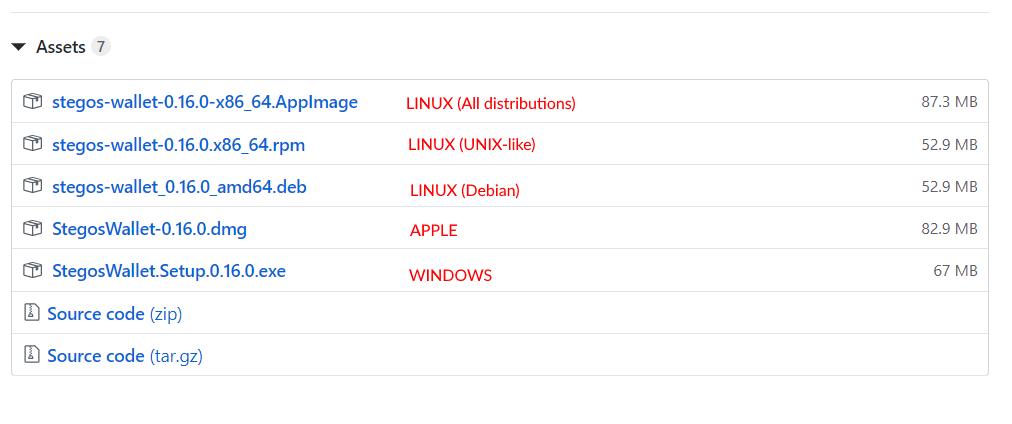
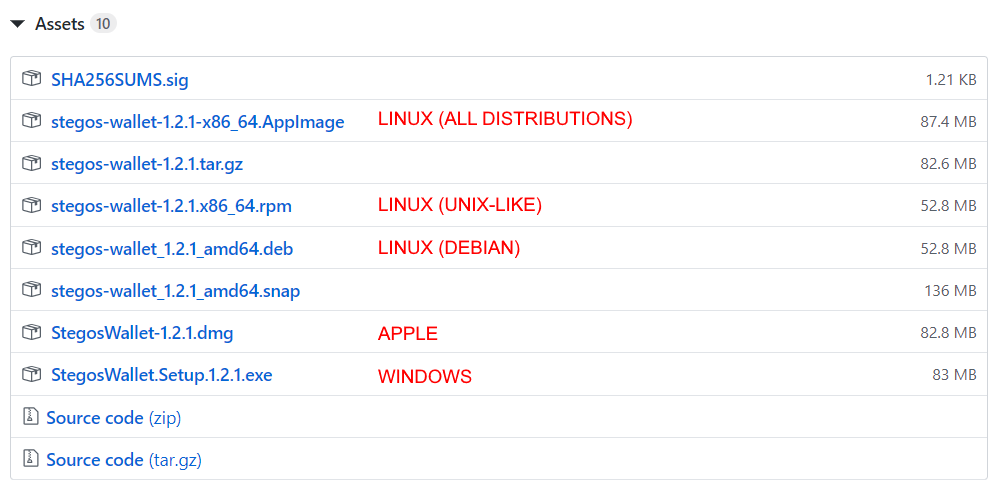
First wave of doc updates: Added new introduction, removed obsolete material, reorganized menus in preparation for second phase of updates.

diff --git a/content/faqs/Funding_and_development.md b/content/faqs/Funding_and_development.md
@@ -5,16 +5,16 @@ type="page"
 +++
 
 #### How is Stegos being funded?
-Stegos will generate a pre-mine of 1 billion STG tokens. Up to 51.25% of the STG pre-mine may be privately sold to high net-worth individuals and companies to reach a maximum of $30 million. Stegos has already raised $15 million of this target in 2018. Once the mainnet is launched, STG tokens will be sold directly to the general public using the built-in DEX.
+Stegos generated a pre-mine of 1 billion STG tokens, of which around 50% was privately sold to high net-worth individuals and companies. Stegos raised $15 million in 2018, which has been used to develop and market the Stegos blockchain and desktop and mobile apps. Once the mobile app is launched, Stegos will begin to transition to a more decentralized governance structure.
 ___
 #### Has development started?
-Development has been on-going for many months. The testnet launched has already launched, and mainnet is due to launch in Nov 2019.
+Development has been on-going for over a year. The Stegos desktop wallet launched in August 2019, the Stegos mainnet launched in Nov 2019 and the Stegos mobile wallet and node will launch in Q1 2020.
 ___
-#### When does the mainnet launch?
+<!--- #### When does the mainnet launch? 
 Mainnet will launch in November 2019.
 ___
 #### What features will be available at mainnet launch?
 Most features will be implemented at launch, although full mobile support will come later. The Stegos desktop app will be available for Windows, MacOS and Linux, but without full messaging support. It will be possible to send messages using the transaction interface, but the chat UI and group chat functionalities will be added later.
 ___
 #### Is there a way to help with testing?
-Yes! We are currently running a $200,000 joint bounty program and hackathon to test our network and spread the word about Stegos. To get started, go to https://www.notion.so/stegos/Stegos-200k-Bounty-and-Hackathon-e83ec5ee6cec485f92c7e7bab93a1306.
+Yes! We are currently running a $200,000 joint bounty program and hackathon to test our network and spread the word about Stegos. To get started, go to https://www.notion.so/stegos/Stegos-200k-Bounty-and-Hackathon-e83ec5ee6cec485f92c7e7bab93a1306. --->

diff --git a/content/gui_wallet/installing_wallet.md b/content/gui_wallet/installing_wallet.md
@@ -7,9 +7,9 @@ weight=2
 
 Install the Stegos desktop wallet by visiting the latest release page:
 
-[https://github.com/stegos/stegos-wallet/releases/tag/v1.0](https://github.com/stegos/stegos-wallet/releases/tag/v1.0)
+[https://github.com/stegos/stegos-wallet/releases/](https://github.com/stegos/stegos-wallet/releases/)
 
-Scroll to the bottom, and click the "Assets" button to expand the menu. Please read all the instructions first though!
+Scroll to the bottom of the most recent entry. You may need to click the "Assets" button to expand the menu. Please read all the instructions first though!
 
 <img src="/images/Assets_Unexpanded.png" style="object-fit:cover;"/>
 
@@ -17,11 +17,11 @@ You will then see a list of files. Choose the right one for your operating syste
 
 <img src="/images/Operating_System_Choice.png" style="object-fit:cover;"/>
 
-**Linux:** stegos-wallet-1.0.0-x86_64.AppImage
+**Linux:** stegos-wallet-1.2.1-x86_64.AppImage
 
-**MacOS:** StegosWallet-1.0.0.dmg
+**MacOS:** StegosWallet-1.2.1.dmg
 
-**Windows:** StegosWallet.Setup.1.0.0.exe
+**Windows:** StegosWallet.Setup.1.2.1.exe
 
 Install the file (you may get a security warning and need to give it permission to run — don't worry, it's perfectly safe) and you're ready to begin!
 
@@ -33,7 +33,7 @@ There are versions of the wallet for MacOS, Windows, and all major Linux distrib
 
 **Is there an Android or iOS wallet?**
 
-No. The mobile wallet is a high priority item on our roadmap, but it won't be released until 
+Not at the moment. Our Android wallet is currently in development and will be released in Q1. You can see a first-look video of it here. There are currently no plans to release an iOS wallet, as it would be impossible to distribute it widely due to Apple's restrictions on private apps.
 
 **I have a 32-bit system, can I install the wallet?**
 

diff --git a/content/_index.md b/content/_index.md
@@ -4,14 +4,18 @@ type="page"
 +++
 
 
-# Welcome to the Stegos documentation portal!
+# Welcome to the Stegos info center!
 
 We live in an era of unprecedented state surveillance and crackdowns on freedom.
 
 It’s nobody’s business what you do with your money, whether paper or digital, and it’s nobody's business who you transact or communicate with.
 
-Stegos helps you embrace your freedoms by providing the first cryptocurrency with fully private transactions and integrated private messaging. This is all thanks to Snowball, our unique privacy protocol. Pruning and sharding keeping the blockchain fast and small.
+Stegos helps you embrace your freedoms by providing the first cryptocurrency with fully private transactions and integrated private messaging. This is all thanks to Snowball, our unique privacy protocol. Pruning and sharding keep the blockchain fast and small.
 
 Stegos uses gamified proof-of-stake (gPoS) to ensure that everyone who helps maintain the network has a fair chance of earning Stegos tokens, not just whales.
 
-Use the menu on the left to learn more about Stegos, our $200,000 bounty and hackathon (running until Nov 17th) and our desktop wallet, which you can download [here](https://github.com/stegos/stegos-wallet/releases/tag/v0.17)
+Whether you're a privacy novice or a seasoned developer, use the menu on the left to learn more about Stegos, staking, our blockchain and our desktop and command line wallets, which you can download [here](https://github.com/stegos/stegos-wallet/releases/) and [here](https://github.com/stegos/stegos/releases).
+
+<img src="/images/comic_strip_2.png" style="object-fit:cover;"/>
+
+

diff --git a/content/getting_started/intro.md b/content/getting_started/intro.md
@@ -5,4 +5,6 @@ type="page"
 weight=1
 +++
 
-Coming soon...
+Stegos is a fully private blockchain that provides users with a simple, secure and most importantly complete approach to their online communications and transactions. Other privacy coins focus solely on providing untraceable transactions, but this is just one part of the equation: users need to be able to communicate privately before making these transactions, or they will leak metadata which governments and other malicious actors can use to identify them.
+
+To address this concern, Stegos provides fully private one-to-one and group messaging in addition to standard payment transactions.

diff --git a/content/developers/Data_Directory_Layout.md b/content/developers/Data_Directory_Layout.md
@@ -2,7 +2,7 @@
 title = "Data Directory Layout"
 # Type of content, set "slide" to display it fullscreen with reveal.js
 type="page"
-
+weight = 1
 +++
 
 Data directory has the following layout: 

diff --git a/content/developers/Exchange_integration.md b/content/developers/Exchange_integration.md
@@ -1,5 +1,5 @@
 +++
-title = "Exchange integration"
+title = "Exchange Integration"
 # Type of content, set "slide" to display it fullscreen with reveal.js
 type="page"
 

diff --git a/content/developers/Building_from_source.md b/content/developers/Building_from_source.md
@@ -2,7 +2,7 @@
 title = "Building from Source"
 # Type of content, set "slide" to display it fullscreen with reveal.js
 type="page"
-
+weight = 2
 +++
 
 ## Quick Start

diff --git a/content/developers/WebSocket_API.md b/content/developers/WebSocket_API.md
@@ -2,7 +2,7 @@
 title = "WebSocket API"
 # Type of content, set "slide" to display it fullscreen with reveal.js
 type="page"
-
+weight = 4
 +++
 
 

diff --git a/content/cli_wallet/_index.md b/content/cli_wallet/_index.md
@@ -1,6 +1,6 @@
 +++
 title = "CLI WALLET"
 head ="<label>CLI WALLET</label>"
-weight = 3
+weight = 4
 alwaysopen = true
 +++

diff --git a/content/gui_wallet/_index.md b/content/gui_wallet/_index.md
@@ -1,0 +1,6 @@
++++
+title = "GUI WALLET"
+head ="<label>GUI WALLET</label>"
+weight = 3
+alwaysopen = true
++++
